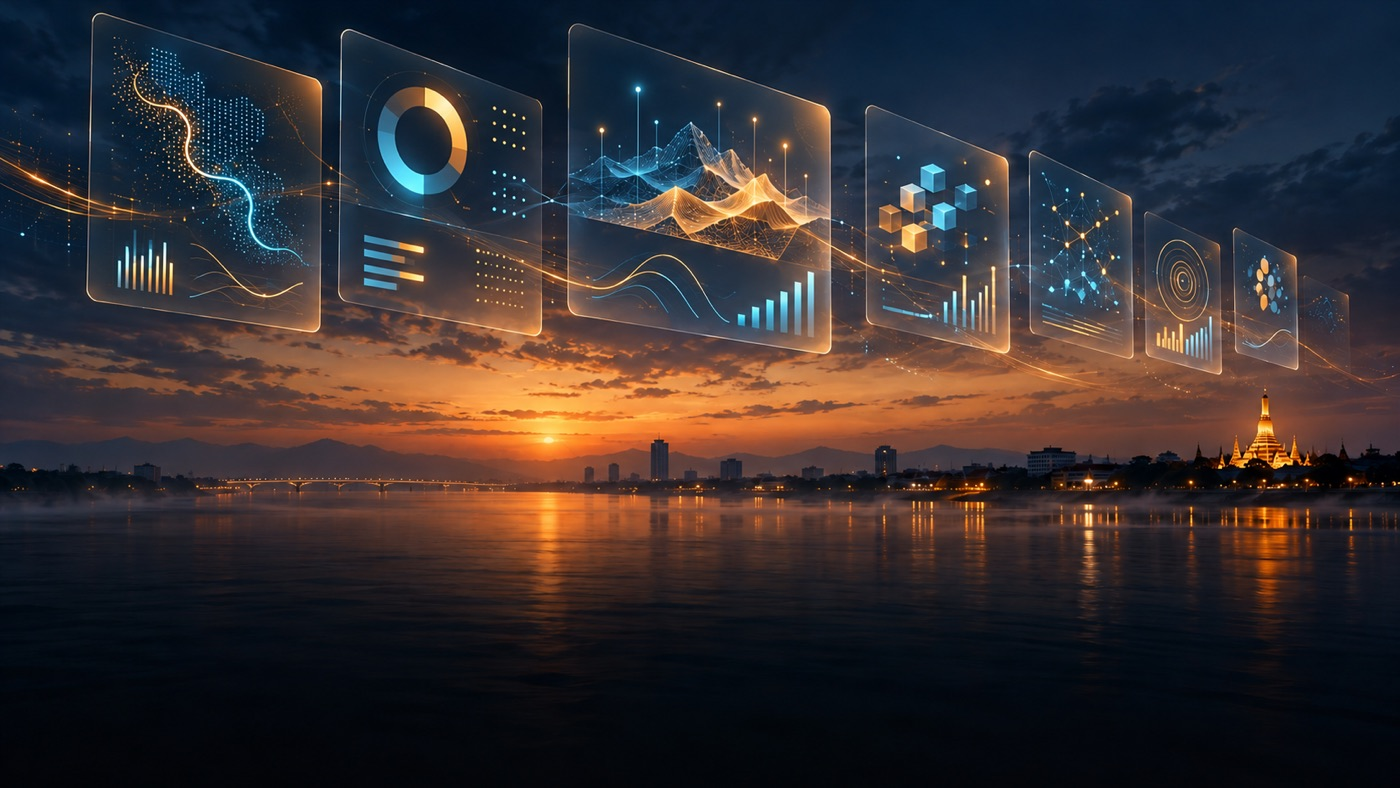
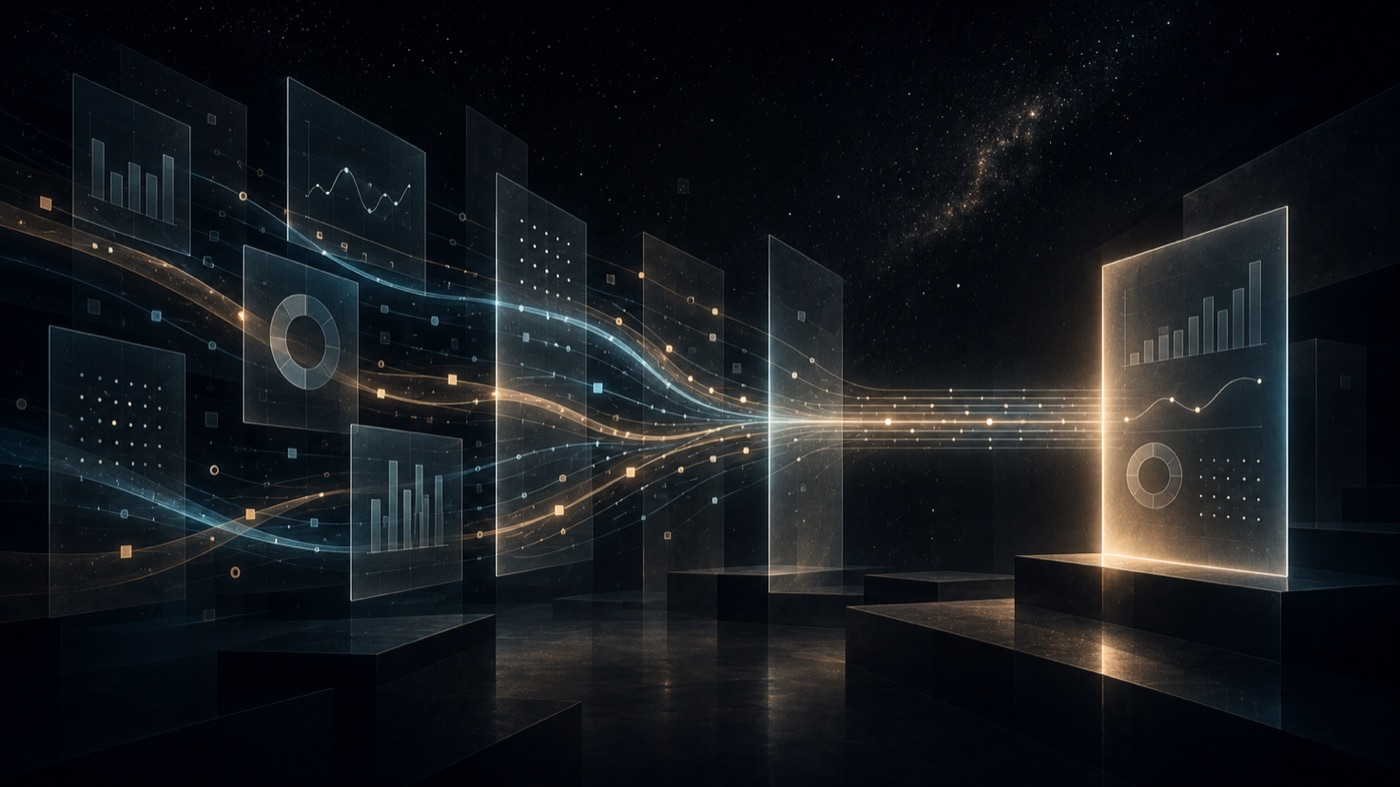
Replace the Remarcable and DataVerse tile images with covers in the shared abstract style

diff --git a/portfolio.html b/portfolio.html
@@ -113,7 +113,7 @@
   <span class="ed-tile__cap"><b>AI for scholarship applications</b><span>Opportunity Paths · 2026</span></span><span class="ed-chip" aria-hidden="true">Info</span>
 </button>
 <button class="ed-tile" type="button" data-action="open-reveal" data-reveal="project-remarcable" aria-haspopup="dialog" style="grid-column:6 / span 2;grid-row:3 / span 3">
-  <img src="images/covers/cover-remarcable.jpg" alt="" decoding="async"><span class="ed-tile__logo"><span class="ed-mark" style="-webkit-mask-image:url('images/logos/remarcable.png');mask-image:url('images/logos/remarcable.png');--ratio:0.848;--h:34px"></span></span>
+  <img src="images/covers/cover-remarcable.jpg" style="object-position:70% 40%" alt="" decoding="async"><span class="ed-tile__logo"><span class="ed-mark" style="-webkit-mask-image:url('images/logos/remarcable.png');mask-image:url('images/logos/remarcable.png');--ratio:0.848;--h:34px"></span></span>
   <span class="ed-tile__cap"><b>Student housing in Bangkok</b><span>Remarcable Living · 2026</span></span><span class="ed-chip" aria-hidden="true">Info</span>
 </button>
 <button class="ed-tile" type="button" data-action="open-reveal" data-reveal="project-thryve" aria-haspopup="dialog" style="grid-column:8 / span 3;grid-row:3 / span 3">
@@ -133,7 +133,7 @@
   <span class="ed-tile__cap"><b>GPT-3.5 for lab voice commands</b><span>LabTwin · Natural language</span></span><span class="ed-chip" aria-hidden="true">Info</span>
 </button>
 <button class="ed-tile" type="button" data-action="open-reveal" data-reveal="project-dataverse" aria-haspopup="dialog" style="grid-column:6 / span 5;grid-row:6 / span 2">
-  <img src="images/covers/cover-dataverse.jpg" alt="" decoding="async">
+  <img src="images/covers/cover-dataverse.jpg" style="object-position:50% 40%" alt="" decoding="async">
   <span class="ed-tile__cap"><b>AI-assisted work for a 40-person consultancy</b><span>DataVerse Consulting · Vientiane</span></span><span class="ed-chip" aria-hidden="true">Info</span>
 </button>
 <button class="ed-tile" type="button" data-action="open-reveal" data-reveal="project-training" aria-haspopup="dialog" style="grid-column:1 / span 3;grid-row:7 / span 2">
